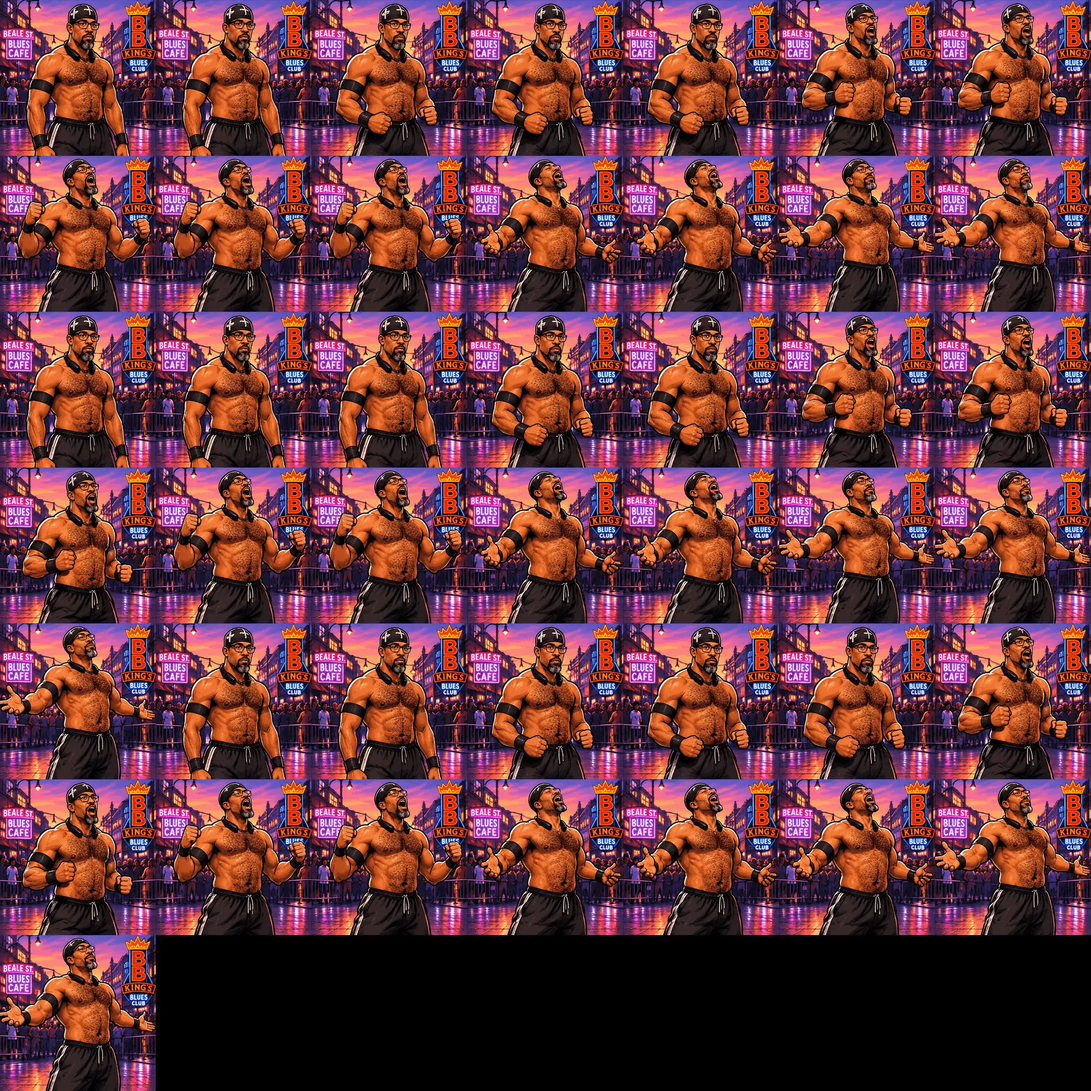
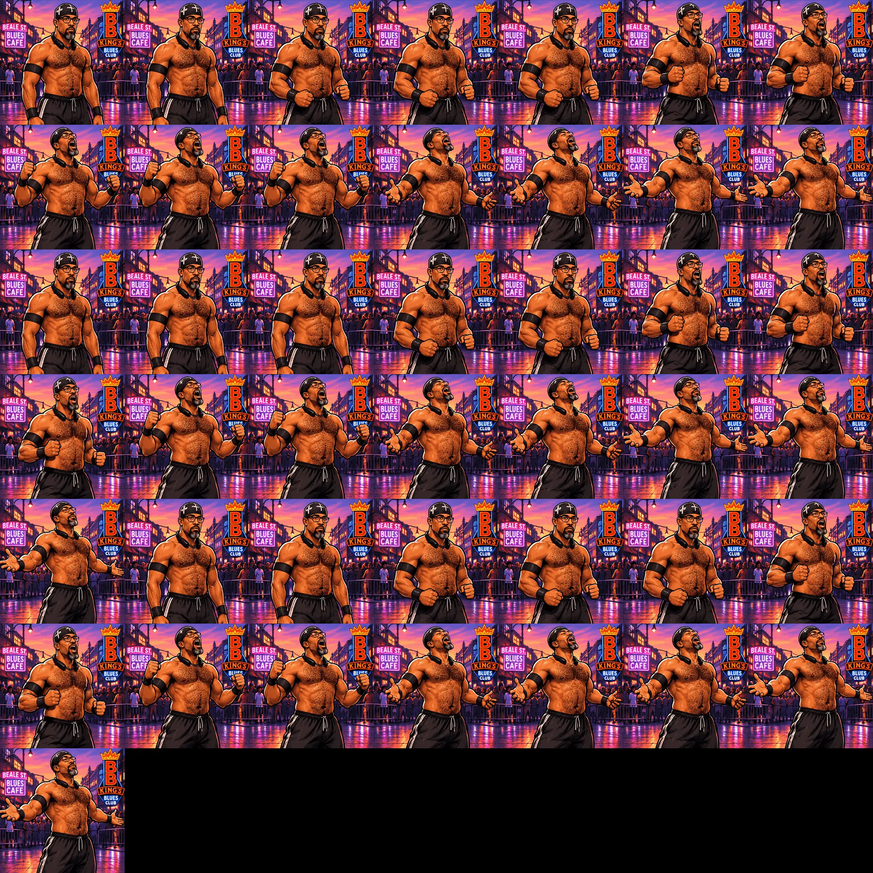
Add KOM as the fourth fighter
Full moveset from his sprite sheet (Beale Burst, Memphis Spin Kick,
King's Rush), a four-card select screen, and smaller victory clips so
the single-file build stays under its size cap.

Claude-Session: https://claude.ai/code/session_01WwqwATYTnd3bacYUNhD3vs

diff --git a/src/game.js b/src/game.js
@@ -18,7 +18,7 @@ function load(name, src){ return new Promise(r=>{ const i=new Image(); i.onload=
 // Frame tables: [atlasX, atlasY, w, h, anchorX(torso centre), anchorY(feet)]
 // Throw frames have the blast painted in; clip them at the hand so the live projectile is the only blast on screen.
 const CLIP = { crimson:{28:165}, afterhours:{5:160}, marcoss:{12:108} };
-const FR = { crimson: [[0,0,101,264,48,263],[103,0,102,263,52,262],[207,0,102,258,51,257],[311,0,99,259,49,258],[412,0,101,259,51,258],[515,0,96,258,52,257],[613,0,91,258,56,257],[706,0,88,254,46,253],[796,0,128,211,61,210],[926,0,127,179,57,178],[1055,0,115,193,52,192],[1172,0,110,167,46,166],[1284,0,109,163,54,162],[1395,0,117,173,49,172],[1514,0,146,199,69,198],[1662,0,142,196,69,195],[1806,0,148,195,68,194],[0,266,115,216,54,215],[117,266,102,214,47,213],[221,266,93,216,44,215],[316,266,140,204,62,203],[458,266,228,210,115,209],[688,266,105,140,51,139],[795,266,104,196,52,195],[901,266,140,237,41,236],[1043,266,519,168,415,167],[1564,266,172,169,96,168],[1738,266,184,194,65,193],[0,505,409,199,127,198],[411,505,204,184,147,183],[617,505,86,194,40,193],[705,505,195,198,86,197],[902,505,619,195,491,194],[1523,505,151,164,78,163],[1676,505,154,175,79,174],[1832,505,200,193,109,192],[0,706,128,167,75,166],[130,706,117,154,67,153],[249,706,120,169,54,168],[371,706,93,177,30,176],[466,706,274,231,136,230],[742,706,161,203,89,202],[905,706,137,196,79,195],[1044,706,119,209,63,208],[1165,706,123,177,61,176],[1290,706,162,198,73,197],[1454,706,177,122,99,121],[1633,706,156,162,78,161],[1791,706,140,161,65,160],[0,939,336,93,262,92],[338,939,103,261,48,260],[443,939,94,259,44,258],[539,939,93,258,43,257],[634,939,88,258,40,257],[724,939,95,237,53,236],[821,939,83,234,42,233],[906,939,115,228,66,227],[1023,939,79,228,42,227],[1104,939,67,228,39,227],[1173,939,82,232,45,231],[1257,939,110,180,51,179],[1369,939,113,162,52,161],[1484,939,105,161,46,160],[1591,939,108,157,48,156],[1701,939,127,186,60,185],[1830,939,122,160,58,159],[0,1202,115,164,55,163],[117,1202,108,218,57,217],[227,1202,114,215,54,214],[343,1202,148,210,75,209],[493,1202,104,219,55,218],[599,1202,108,220,46,219],[709,1202,97,218,49,217],[808,1202,151,223,57,222],[961,1202,97,216,51,215],[1060,1202,118,220,62,219],[1180,1202,111,219,58,218],[1293,1202,110,218,59,217],[1405,1202,102,218,49,217],[1509,1202,107,199,60,198],[1618,1202,106,182,55,181],[1726,1202,107,157,52,156],[1835,1202,88,218,40,217],[1925,1202,123,145,71,144],[0,1427,117,102,66,101],[119,1427,180,55,98,54]], afterhours: [[0,0,235,237,162,236],[237,0,225,236,136,235],[464,0,243,235,149,234],[709,0,173,255,74,254],[884,0,179,255,79,254],[1065,0,581,277,91,276],[1648,0,188,263,93,262],[1838,0,196,267,90,266],[0,279,295,270,130,269],[297,279,299,273,169,272],[598,279,291,265,162,264],[891,279,221,258,150,257],[1114,279,232,224,136,223],[1348,279,201,231,127,230],[1551,279,243,244,160,243],[0,554,509,241,420,240],[511,554,293,191,206,190],[806,554,276,276,151,275],[1084,554,237,276,120,275],[1323,554,252,274,127,273],[1577,554,318,289,158,288],[0,845,184,266,97,265],[186,845,187,261,105,260],[375,845,181,265,104,264],[558,845,332,295,166,294],[892,845,801,244,644,243],[1695,845,261,244,119,243],[0,1142,243,211,102,210],[245,1142,368,258,214,257],[615,1142,162,254,94,253],[779,1142,146,267,74,265],[927,1142,144,265,75,264],[1073,1142,146,263,74,261],[1221,1142,191,259,105,258],[1414,1142,175,261,99,259],[1591,1142,168,257,105,256],[1761,1142,186,260,110,258],[0,1411,203,261,95,259],[205,1411,177,198,87,196],[384,1411,167,167,86,166],[553,1411,173,159,90,157],[728,1411,141,173,74,172],[871,1411,135,177,69,176],[1008,1411,134,173,71,172],[1144,1411,138,156,73,154],[1284,1411,148,160,72,159],[1434,1411,207,248,101,247],[1643,1411,203,247,105,246],[0,1674,234,246,115,243],[236,1674,257,243,118,241],[495,1674,283,255,136,253],[780,1674,398,256,141,254],[1180,1674,219,245,104,243],[1401,1674,151,243,79,241],[1554,1674,179,240,98,238],[1735,1674,181,236,95,234],[0,1932,250,238,105,235],[252,1932,325,253,130,250],[579,1932,234,231,102,230],[815,1932,264,225,120,223],[1081,1932,286,225,125,223],[1369,1932,340,227,154,226],[0,2187,363,225,169,222],[365,2187,302,242,129,240]], marcoss: [[0,0,147,283,71,282],[149,0,173,281,89,280],[324,0,202,270,108,269],[528,0,177,272,96,271],[707,0,139,272,79,271],[848,0,150,263,80,262],[1000,0,218,265,105,264],[1220,0,238,269,105,268],[1460,0,237,262,105,261],[1699,0,239,263,105,262],[0,285,182,262,71,261],[184,285,202,268,105,267],[388,285,374,258,105,257],[764,285,212,279,55,278],[978,285,239,271,79,270],[1219,285,156,175,89,174],[1377,285,276,162,86,161],[1655,285,277,171,110,170],[0,566,217,141,108,140],[219,566,206,104,103,103],[427,566,280,63,140,62],[709,566,152,184,78,183],[863,566,134,189,62,188],[999,566,170,192,65,191],[1171,566,180,172,73,171],[1353,566,169,174,61,173],[1524,566,171,148,74,147],[1697,566,186,138,73,137],[1885,566,145,181,56,180],[0,760,207,147,59,146],[209,760,134,147,65,146]] };
+const FR = { crimson: [[0,0,101,264,48,263],[103,0,102,263,52,262],[207,0,102,258,51,257],[311,0,99,259,49,258],[412,0,101,259,51,258],[515,0,96,258,52,257],[613,0,91,258,56,257],[706,0,88,254,46,253],[796,0,128,211,61,210],[926,0,127,179,57,178],[1055,0,115,193,52,192],[1172,0,110,167,46,166],[1284,0,109,163,54,162],[1395,0,117,173,49,172],[1514,0,146,199,69,198],[1662,0,142,196,69,195],[1806,0,148,195,68,194],[0,266,115,216,54,215],[117,266,102,214,47,213],[221,266,93,216,44,215],[316,266,140,204,62,203],[458,266,228,210,115,209],[688,266,105,140,51,139],[795,266,104,196,52,195],[901,266,140,237,41,236],[1043,266,519,168,415,167],[1564,266,172,169,96,168],[1738,266,184,194,65,193],[0,505,409,199,127,198],[411,505,204,184,147,183],[617,505,86,194,40,193],[705,505,195,198,86,197],[902,505,619,195,491,194],[1523,505,151,164,78,163],[1676,505,154,175,79,174],[1832,505,200,193,109,192],[0,706,128,167,75,166],[130,706,117,154,67,153],[249,706,120,169,54,168],[371,706,93,177,30,176],[466,706,274,231,136,230],[742,706,161,203,89,202],[905,706,137,196,79,195],[1044,706,119,209,63,208],[1165,706,123,177,61,176],[1290,706,162,198,73,197],[1454,706,177,122,99,121],[1633,706,156,162,78,161],[1791,706,140,161,65,160],[0,939,336,93,262,92],[338,939,103,261,48,260],[443,939,94,259,44,258],[539,939,93,258,43,257],[634,939,88,258,40,257],[724,939,95,237,53,236],[821,939,83,234,42,233],[906,939,115,228,66,227],[1023,939,79,228,42,227],[1104,939,67,228,39,227],[1173,939,82,232,45,231],[1257,939,110,180,51,179],[1369,939,113,162,52,161],[1484,939,105,161,46,160],[1591,939,108,157,48,156],[1701,939,127,186,60,185],[1830,939,122,160,58,159],[0,1202,115,164,55,163],[117,1202,108,218,57,217],[227,1202,114,215,54,214],[343,1202,148,210,75,209],[493,1202,104,219,55,218],[599,1202,108,220,46,219],[709,1202,97,218,49,217],[808,1202,151,223,57,222],[961,1202,97,216,51,215],[1060,1202,118,220,62,219],[1180,1202,111,219,58,218],[1293,1202,110,218,59,217],[1405,1202,102,218,49,217],[1509,1202,107,199,60,198],[1618,1202,106,182,55,181],[1726,1202,107,157,52,156],[1835,1202,88,218,40,217],[1925,1202,123,145,71,144],[0,1427,117,102,66,101],[119,1427,180,55,98,54]], afterhours: [[0,0,235,237,162,236],[237,0,225,236,136,235],[464,0,243,235,149,234],[709,0,173,255,74,254],[884,0,179,255,79,254],[1065,0,581,277,91,276],[1648,0,188,263,93,262],[1838,0,196,267,90,266],[0,279,295,270,130,269],[297,279,299,273,169,272],[598,279,291,265,162,264],[891,279,221,258,150,257],[1114,279,232,224,136,223],[1348,279,201,231,127,230],[1551,279,243,244,160,243],[0,554,509,241,420,240],[511,554,293,191,206,190],[806,554,276,276,151,275],[1084,554,237,276,120,275],[1323,554,252,274,127,273],[1577,554,318,289,158,288],[0,845,184,266,97,265],[186,845,187,261,105,260],[375,845,181,265,104,264],[558,845,332,295,166,294],[892,845,801,244,644,243],[1695,845,261,244,119,243],[0,1142,243,211,102,210],[245,1142,368,258,214,257],[615,1142,162,254,94,253],[779,1142,146,267,74,265],[927,1142,144,265,75,264],[1073,1142,146,263,74,261],[1221,1142,191,259,105,258],[1414,1142,175,261,99,259],[1591,1142,168,257,105,256],[1761,1142,186,260,110,258],[0,1411,203,261,95,259],[205,1411,177,198,87,196],[384,1411,167,167,86,166],[553,1411,173,159,90,157],[728,1411,141,173,74,172],[871,1411,135,177,69,176],[1008,1411,134,173,71,172],[1144,1411,138,156,73,154],[1284,1411,148,160,72,159],[1434,1411,207,248,101,247],[1643,1411,203,247,105,246],[0,1674,234,246,115,243],[236,1674,257,243,118,241],[495,1674,283,255,136,253],[780,1674,398,256,141,254],[1180,1674,219,245,104,243],[1401,1674,151,243,79,241],[1554,1674,179,240,98,238],[1735,1674,181,236,95,234],[0,1932,250,238,105,235],[252,1932,325,253,130,250],[579,1932,234,231,102,230],[815,1932,264,225,120,223],[1081,1932,286,225,125,223],[1369,1932,340,227,154,226],[0,2187,363,225,169,222],[365,2187,302,242,129,240]], marcoss: [[0,0,147,283,71,282],[149,0,173,281,89,280],[324,0,202,270,108,269],[528,0,177,272,96,271],[707,0,139,272,79,271],[848,0,150,263,80,262],[1000,0,218,265,105,264],[1220,0,238,269,105,268],[1460,0,237,262,105,261],[1699,0,239,263,105,262],[0,285,182,262,71,261],[184,285,202,268,105,267],[388,285,374,258,105,257],[764,285,212,279,55,278],[978,285,239,271,79,270],[1219,285,156,175,89,174],[1377,285,276,162,86,161],[1655,285,277,171,110,170],[0,566,217,141,108,140],[219,566,206,104,103,103],[427,566,280,63,140,62],[709,566,152,184,78,183],[863,566,134,189,62,188],[999,566,170,192,65,191],[1171,566,180,172,73,171],[1353,566,169,174,61,173],[1524,566,171,148,74,147],[1697,566,186,138,73,137],[1885,566,145,181,56,180],[0,760,207,147,59,146],[209,760,134,147,65,146]], kom: [[0,0,135,284,61,283],[137,0,132,284,65,283],[271,0,138,284,65,283],[411,0,132,285,59,284],[545,0,196,276,101,275],[743,0,156,276,81,275],[901,0,181,277,92,276],[1084,0,174,275,84,274],[1260,0,168,268,76,267],[1430,0,262,254,123,253],[1694,0,122,164,52,163],[1818,0,99,180,41,179],[1919,0,124,175,47,174],[0,287,164,176,47,175],[166,287,98,229,28,228],[266,287,160,207,100,206],[428,287,128,200,74,199],[558,287,150,150,80,149],[710,287,171,219,84,218],[883,287,161,223,74,222],[1046,287,189,207,109,206],[1237,287,169,206,80,205],[1408,287,272,213,88,212],[1682,287,210,201,92,200],[0,518,277,214,97,213],[279,518,135,203,43,202],[416,518,183,205,66,204],[601,518,180,206,43,205],[783,518,222,212,70,211],[1007,518,192,178,93,177],[1201,518,205,178,94,177],[1408,518,222,174,97,173],[1632,518,226,178,116,177],[0,734,225,178,111,177],[227,734,264,178,124,177],[493,734,209,169,108,168],[704,734,266,168,118,167],[972,734,241,165,79,164],[1215,734,152,161,69,160],[1369,734,157,128,75,127],[1528,734,250,74,84,73],[1780,734,255,56,104,55]] };
 
 /* ---------- 2. Roster ----------
    frames: animation name → list of [frameIndex, ticks]
@@ -115,6 +115,37 @@ const ROSTER = {
             dive:[0,13,7], landFrame:21, name:"FLYING KICK" },
       super:{ seq:[[11,16],[9,8],[14,8],[10,8],[9,8],[14,8],[10,14]], active:[18,70], box:[-40,-215,145,-10],
             dmg:5, stun:16, push:3, multi:7, name:"MEMPHIS MAULER", superMove:true },
+    },
+  },
+  // Atlas index guide (KOM): 0-3 idle, 4-8 walk, 9 run, 10-14 jump, 15-17 crouch, 18-19 guard, 20 stance, 21-22 jab, 23-24 heavy punch,
+  // 25 knee, 26 high kick, 27-28 heavy kick, 29-31 Beale Burst, 32-34 Memphis Spin Kick, 35-37 King's Rush, 38-41 knockdown.
+  // His sheet drew each frame only ~110px tall, so his sprites are enlarged about 2.5x and look softer than the others.
+  kom: {
+    name: "KOM", atlas: "kom", size: 1, style: "ALL-ROUNDER  ·  KING'S RUSH",
+    anim: {
+      idle:[[0,12],[1,12],[2,12],[3,12]], walk:[[4,6],[5,6],[6,6],[7,6],[8,6]],
+      crouch:[[16,99]], jump:[[12,99]], air:[[13,99]], land:[[14,6]],
+      block:[[18,99]], hit:[[20,99]], ko:[[38,10],[39,12],[40,14],[41,999]],
+      win:[[0,99]], airkick:[[13,99]],
+    },
+    fallback:{ hit:"lean" },
+    walkScale: 1, stanceScale: 1,
+    moves: {
+      p:  { seq:[[20,3],[21,3],[22,7],[21,4]], active:[5,13], box:[25,-160,120,-115], dmg:7,  stun:14, push:5 },
+      hp: { seq:[[20,3],[23,5],[24,10],[23,5]], active:[7,17], box:[25,-165,130,-110], dmg:12, stun:20, push:9 },
+      k:  { seq:[[25,5],[26,9],[25,5]], active:[5,14], box:[20,-195,125,-110], dmg:10, stun:18, push:7 },
+      hk: { seq:[[25,4],[27,6],[28,9],[27,5]], active:[7,20], box:[20,-200,140,-90], dmg:13, stun:22, push:10, knock:true },
+      k3: { seq:[[25,3],[28,9],[27,5]], active:[4,12], box:[20,-200,135,-100], dmg:11, stun:22, push:11, knock:true },
+      s:  { seq:[[35,8],[36,10],[37,12],[20,6]], active:[16,30], box:[20,-165,130,-90], dmg:15, stun:30, push:12,
+            dash:[2,24,10], knock:true, name:"KING'S RUSH" },
+      s2: { seq:[[29,6],[30,6],[31,16],[20,5]], active:[0,0], box:[0,0,0,0], dmg:12, stun:20, push:8,
+            projectile:{at:14,speed:8,y:-135,dx:85,color:"#3a7bff"}, name:"BEALE BURST" },
+      su: { seq:[[32,6],[33,6],[34,8],[32,6]], active:[3,22], box:[-10,-225,120,-70], dmg:5, stun:20, push:5, multi:7,
+            knock:true, launch:[3,-11,2], name:"MEMPHIS SPIN KICK" },
+      airs:{ seq:[[12,5],[13,99]], active:[0,999], box:[0,-130,120,0], dmg:12, stun:22, push:8, knock:true,
+            dive:[0,13,7], landFrame:16, name:"CROWN DROP" },
+      super:{ seq:[[31,16],[22,8],[26,8],[33,8],[34,8],[24,8],[28,14]], active:[18,70], box:[-40,-215,145,-10],
+            dmg:5, stun:16, push:3, multi:7, name:"KING OF BEALE", superMove:true },
     },
   },
 };
@@ -363,7 +394,7 @@ function fit(){
   cv.width=Math.round(VW*DPR); cv.height=Math.round(540*DPR); cv.style.aspectRatio=VW+"/540";
 }
 addEventListener("resize",fit); fit();
-const KEYS=["crimson","afterhours","marcoss"];
+const KEYS=["crimson","afterhours","marcoss","kom"];
 const match = {
   stage:0,
   screen:"title", sel:0, level:"NORMAL", round:1, timer:99, frame:0, pause:0, banner:null, shake:0, hitstop:0,
@@ -534,7 +565,7 @@ function bar(x,y,w,h,pct,rev,c1,c2,ghost){
     g.save(); g.clip(); g.fillStyle="rgba(255,255,255,.28)"; g.fillRect(x,y,w+sk,h*.35); g.restore(); }
   path(x,x+w); g.strokeStyle="#f6eefc"; g.lineWidth=2; g.stroke();
 }
-const FACE={ crimson:[150,5,180], afterhours:[170,15,170], marcoss:[165,0,180] };   // face crop (x, y, size) in each select portrait
+const FACE={ crimson:[150,5,180], afterhours:[170,15,170], marcoss:[165,0,180], kom:[185,0,175] };   // face crop (x, y, size) in each select portrait
 function portrait(f,cx,cy,r,col){
   const [sx,sy,ss]=FACE[f.key], sp=IMG["win_"+f.key], q=sp.width/506;
   g.save(); g.beginPath(); g.arc(cx,cy,r,0,7); g.clip(); g.drawImage(sp,sx*q,sy*q,ss*q,ss*q,cx-r,cy-r,r*2,r*2);
@@ -600,13 +631,14 @@ function drawTitle(){
     g.restore();
     slant(0,0,cw,ch,sk); g.strokeStyle=on?col:"#4a3a70"; g.lineWidth=on?4:2; g.stroke();
     if(on){ slant(sk-4,-10,52,22,6); g.fillStyle="#ff3fb4"; g.fill(); g.strokeStyle="#fff"; g.lineWidth=1.5; g.stroke(); plain("YOU",sk+22,6,12,"#fff"); }
-    text(c.name,cw/2-3,ch-26,small?18:24,on?"#ffc642":"#b9aacf");
-    plain(small?c.style.split("  ·  ")[0]:c.style,cw/2-3,ch-10,small?9:11,on?"#f6eefc":"#8d7fa8","Chakra Petch");
+    text(c.name,cw/2-3,ch-26,small?(n>3?14:18):24,on?"#ffc642":"#b9aacf");
+    plain((small||n>3)?c.style.split("  ·  ")[0]:c.style,cw/2-3,ch-10,small?8:11,on?"#f6eefc":"#8d7fa8","Chakra Petch");
     g.restore();
   });
   // stage row: thumbnails of each location
   const sh=46, sy=348;
-  STAGES.forEach((st,i)=>{ const x=C-rowW/2+i*(cw+gap), on=match.stage===i, im=IMG[st.key]; titleStage[i]=[x,sy,cw,sh];
+  const stw=(rowW-gap*(STAGES.length-1))/STAGES.length;
+  STAGES.forEach((st,i)=>{ const cw=stw, x=C-rowW/2+i*(cw+gap), on=match.stage===i, im=IMG[st.key]; titleStage[i]=[x,sy,cw,sh];
     g.save(); slant(x,sy,cw,sh,8); g.clip(); const sc=Math.max(cw/im.width,sh/im.height), sw=cw/sc, shh=sh/sc;
     if(!on) g.filter="brightness(.5) saturate(.6)"; g.drawImage(im,(im.width-sw)/2,(im.height-shh)*.42,sw,shh,x,sy,cw,sh); g.filter="none";
     g.fillStyle="rgba(13,7,24,.45)"; g.fillRect(x,sy+sh-17,cw,17); g.restore();
@@ -629,17 +661,22 @@ function drawTitle(){
 // `order` is the playlist of frame numbers; clips play forward then backward so loops never jump.
 const seq=(a,b)=>{ const o=[]; for(let i=a; a<=b?i<=b:i>=b; i+=a<=b?1:-1) o.push(i); return o; };
 const VICTORY={
-  crimson:   { cols:8, fps:10, order:[...seq(0,62), ...Array(8).fill(62), ...seq(61,1)] },                 // celebration → GAME OVER
-  marcoss:   { cols:7, fps:8,  order:[...seq(0,42), ...seq(41,1)] },
-  afterhours:{ cols:7, fps:10, order:[...seq(0,38), ...Array(8).fill(38), ...seq(37,1)] },                  // 4-second celebration with GAME OVER
+  crimson:{ cols:8, fps:10, fw:320, fh:320, order:[...seq(0,62), ...Array(8).fill(62), ...seq(61,1)] },
+  afterhours:{ cols:7, fps:10, fw:320, fh:320, order:[...seq(0,38), ...Array(8).fill(38), ...seq(37,1)] },
+  marcoss:{ cols:7, fps:8, fw:320, fh:320, order:[...seq(0,42), ...Array(8).fill(42), ...seq(41,1)] },
+  kom:{ cols:6, fps:6, fw:480, fh:270, order:[...seq(0,35), ...Array(8).fill(35), ...seq(34,1)], wide:true },
 };
 function drawResult(){
   const C=VW/2, w=match.winner, you=w===match.p1, sp=IMG["va_"+w.key], va=VICTORY[w.key];
   const i=va.order[Math.floor((match.frame-match.resultStart)*va.fps/60)%va.order.length];
-  const fx=(i%va.cols)*400, fy=Math.floor(i/va.cols)*400, sc=Math.max(VW/400,540/400), sw=VW/sc, sh=540/sc;
-  g.drawImage(sp, fx+(400-sw)/2, fy+(400-sh)*.35, sw, sh, 0,0,VW,540);
+  const fx=(i%va.cols)*va.fw, fy=Math.floor(i/va.cols)*va.fh, sc=Math.max(VW/va.fw,540/va.fh), sw=VW/sc, sh=540/sc;
+  if(va.wide && VW/540 < va.fw/va.fh*.9){
+    // widescreen clip on a tall screen: show the whole picture over a dimmed, blurred copy of itself
+    g.filter="blur(14px) brightness(.35)"; g.drawImage(sp, fx+(va.fw-sw)/2, fy, sw, sh, -20,-20,VW+40,580); g.filter="none";
+    const h=VW*va.fh/va.fw; g.drawImage(sp, fx, fy, va.fw, va.fh, 0, 70, VW, h);
+  } else g.drawImage(sp, fx+(va.fw-sw)/2, fy+(va.fh-sh)*.35, sw, sh, 0,0,VW,540);
   const gr=g.createLinearGradient(0,0,0,540); gr.addColorStop(0,"rgba(13,7,24,0)"); gr.addColorStop(.68,"rgba(13,7,24,0)"); gr.addColorStop(1,"rgba(13,7,24,.92)"); g.fillStyle=gr; g.fillRect(0,0,VW,540);
-  // text sits at the bottom so it never covers her face
+  // text sits at the bottom so it never covers a face
   text(you?"YOU WIN":"YOU LOSE",C,462,VW<700?54:64,you?"#ffc642":"#ff4d4d");
   text(w.c.name+" OWNS BEALE",C,492,VW<700?18:22,"#f6eefc");
   if(Math.floor(match.frame/30)%2) text(document.body.classList.contains("touch")?"TAP TO CONTINUE":"PRESS ENTER",C,526,18,"#45e0ff");
@@ -690,5 +727,5 @@ function loop(now){
   while(acc>=1000/60){ step(); for(const k in pressed) pressed[k]=false; acc-=1000/60; }
   render(); requestAnimationFrame(loop);
 }
-Promise.all([ load("crimson","assets/nicole-sprites.webp"), load("afterhours","assets/keelah-sprites.webp"), load("bg","assets/stage-beale-street.jpg"), load("marcoss","assets/marcoss-sprites.webp"), load("bg_palace","assets/stage-crystal-palace.jpg"), load("bg_coliseum","assets/stage-midsouth-coliseum.jpg"), load("win_marcoss","assets/select-marcoss.jpg"), load("va_marcoss","assets/victory-marcoss.webp"), load("win_crimson","assets/select-nicole.jpg"), load("win_afterhours","assets/select-keelah.jpg"), load("va_crimson","assets/victory-nicole.webp"), load("va_afterhours","assets/victory-keelah.webp") ])
+Promise.all([ load("crimson","assets/nicole-sprites.webp"), load("afterhours","assets/keelah-sprites.webp"), load("bg","assets/stage-beale-street.jpg"), load("kom","assets/kom-sprites.webp"), load("win_kom","assets/select-kom.jpg"), load("va_kom","assets/victory-kom.webp"), load("marcoss","assets/marcoss-sprites.webp"), load("bg_palace","assets/stage-crystal-palace.jpg"), load("bg_coliseum","assets/stage-midsouth-coliseum.jpg"), load("win_marcoss","assets/select-marcoss.jpg"), load("va_marcoss","assets/victory-marcoss.webp"), load("win_crimson","assets/select-nicole.jpg"), load("win_afterhours","assets/select-keelah.jpg"), load("va_crimson","assets/victory-nicole.webp"), load("va_afterhours","assets/victory-keelah.webp") ])
   .then(()=>requestAnimationFrame(loop));

diff --git a/README.md b/README.md
@@ -6,7 +6,7 @@ A 2D fighting game set on Beale Street in Memphis, Tennessee. It runs in any mod
 
 ## Status
 
-Three of the planned six fighters are playable: **Nicole** (rushdown, dash punches), **Keelah** (kickboxer, spin kicks) and **Marcoss** (powerhouse, heavy hands). Two bosses are planned. There are three stages: Beale Street, the Crystal Palace roller rink and the Midsouth Coliseum. The current mode is one player against a random CPU opponent, best of three rounds, with Easy, Normal and Hard difficulty.
+Four of the planned six fighters are playable: **Nicole** (rushdown, dash punches), **Keelah** (kickboxer, spin kicks), **Marcoss** (powerhouse, heavy hands) and **KOM** (all-rounder). Two bosses are planned. There are three stages: Beale Street, the Crystal Palace roller rink and the Midsouth Coliseum. The current mode is one player against a random CPU opponent, best of three rounds, with Easy, Normal and Hard difficulty.
 
 ## Controls
 
@@ -26,20 +26,20 @@ Three of the planned six fighters are playable: **Nicole** (rushdown, dash punch
 
 All fighters share the same inputs. Normal attacks have identical damage, speed and reach, so the matchup is even.
 
-| Input | Nicole | Keelah | Marcoss |
-|---|---|---|---|
-| Punch | Jab | Jab | Jab |
-| Kick | Kick | Kick | Kick |
-| Forward + Punch | Heavy punch | Heavy punch | Heavy punch |
-| Forward + Kick | Heavy kick (knocks down) | Heavy kick (knocks down) | Flying spin kick (knocks down) |
-| Down + Punch | | | Crouching punch |
-| Down + Kick | | | Sweep (knocks down) |
-| Punch, Punch, Kick | 3-hit combo | 3-hit combo | 3-hit combo |
-| Special | Crimson Rush | Roundhouse Flurry | Bluff City Rush |
-| Down + Special | Crimson Wave (projectile) | Pink Comet (projectile) | Blue Flame (projectile) |
-| Back + Special | Rising Rose (anti-air) | Rising Heel (anti-air) | Rising Uppercut (anti-air) |
-| Special in the air | Heel Quake (dive) | Ground Breaker (dive) | Flying Kick (dive) |
-| Special with a full meter | Crimson Cyclone (super) | After Hours Tornado (super) | Memphis Mauler (super) |
+| Input | Nicole | Keelah | Marcoss | KOM |
+|---|---|---|---|---|
+| Punch | Jab | Jab | Jab | Jab |
+| Kick | Kick | Kick | Kick | Kick |
+| Forward + Punch | Heavy punch | Heavy punch | Heavy punch | Heavy punch |
+| Forward + Kick | Heavy kick (knocks down) | Heavy kick (knocks down) | Flying spin kick (knocks down) | Heavy kick (knocks down) |
+| Down + Punch | | | Crouching punch | |
+| Down + Kick | | | Sweep (knocks down) | |
+| Punch, Punch, Kick | 3-hit combo | 3-hit combo | 3-hit combo | 3-hit combo |
+| Special | Crimson Rush | Roundhouse Flurry | Bluff City Rush | King's Rush |
+| Down + Special | Crimson Wave (projectile) | Pink Comet (projectile) | Blue Flame (projectile) | Beale Burst (projectile) |
+| Back + Special | Rising Rose (anti-air) | Rising Heel (anti-air) | Rising Uppercut (anti-air) | Memphis Spin Kick (anti-air) |
+| Special in the air | Heel Quake (dive) | Ground Breaker (dive) | Flying Kick (dive) | Crown Drop (dive) |
+| Special with a full meter | Crimson Cyclone (super) | After Hours Tornado (super) | Memphis Mauler (super) | King of Beale (super) |
 
 A jab that connects can be cancelled into a kick, a heavy punch or a special. The meter fills as you deal and take damage.
 
@@ -69,11 +69,12 @@ The music and sound effects are synthesized in the browser with the Web Audio AP
 
 - Keelah has no dedicated block, hit or knockdown art yet. Those states reuse other frames with effects drawn in code.
 - Marcoss's standing punch and kick art was drawn from the waist up, so the atlas joins those frames onto legs from his stance frames.
-- Three more fighters and two bosses are planned.
+- KOM's sheet drew each frame about 110 pixels tall, so his sprites are enlarged and look softer than the others.
+- Two more fighters and two bosses are planned.
 - There is no two-player mode yet.
 
 ## Credits and rights
 
-Game design and art direction by Marcus Faulkner. The character art was generated with AI image tools and is based on real people, used with their permission. The character art and likeness are not licensed for reuse.
+Game design and art direction by Marcus Faulkner. The character art was generated with AI image tools and is based on real people, used with their permission, except KOM, who is an invented character. The character art and likeness are not licensed for reuse.
 
 The soundtrack is an original composition written for this game.
